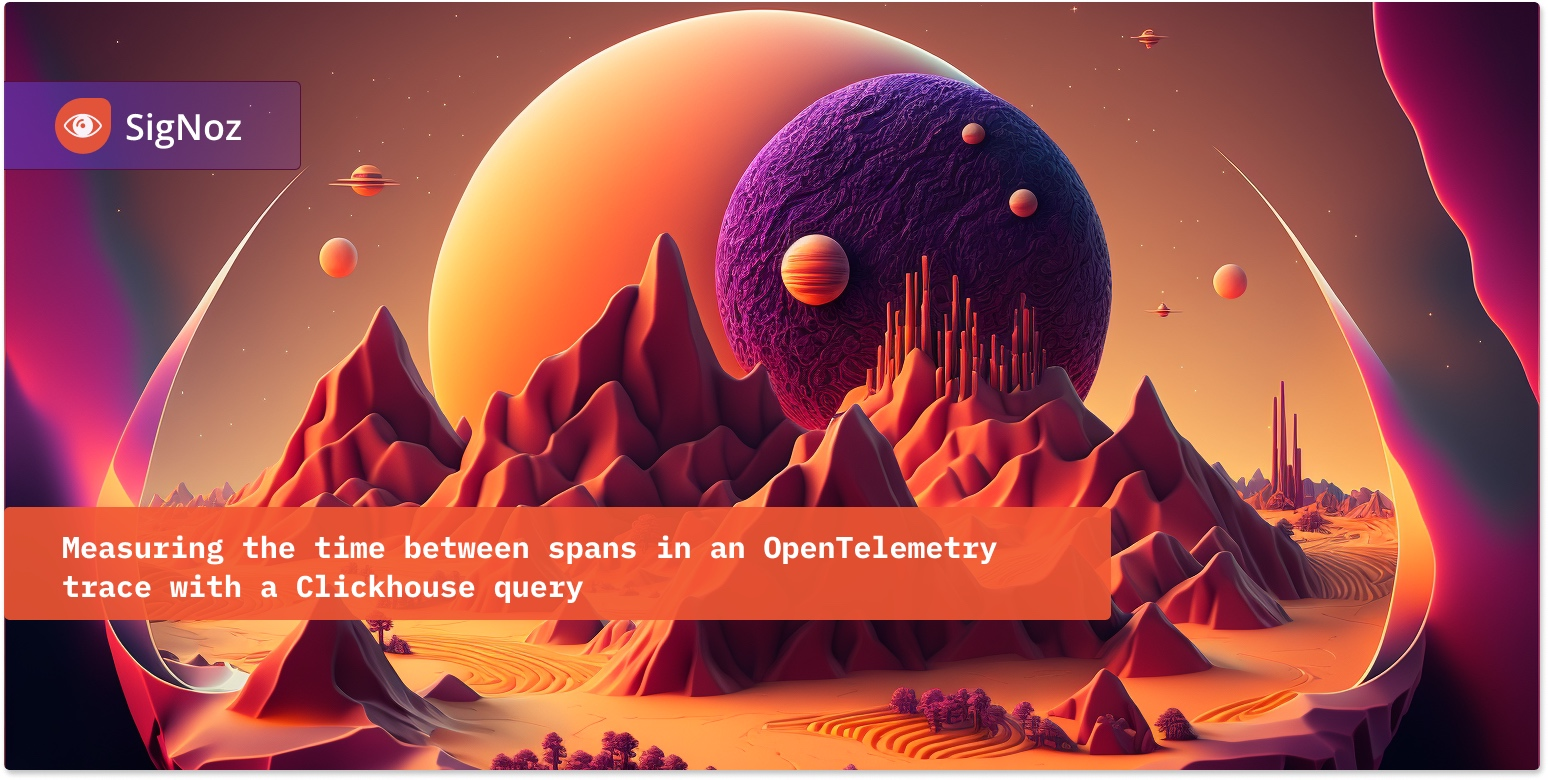
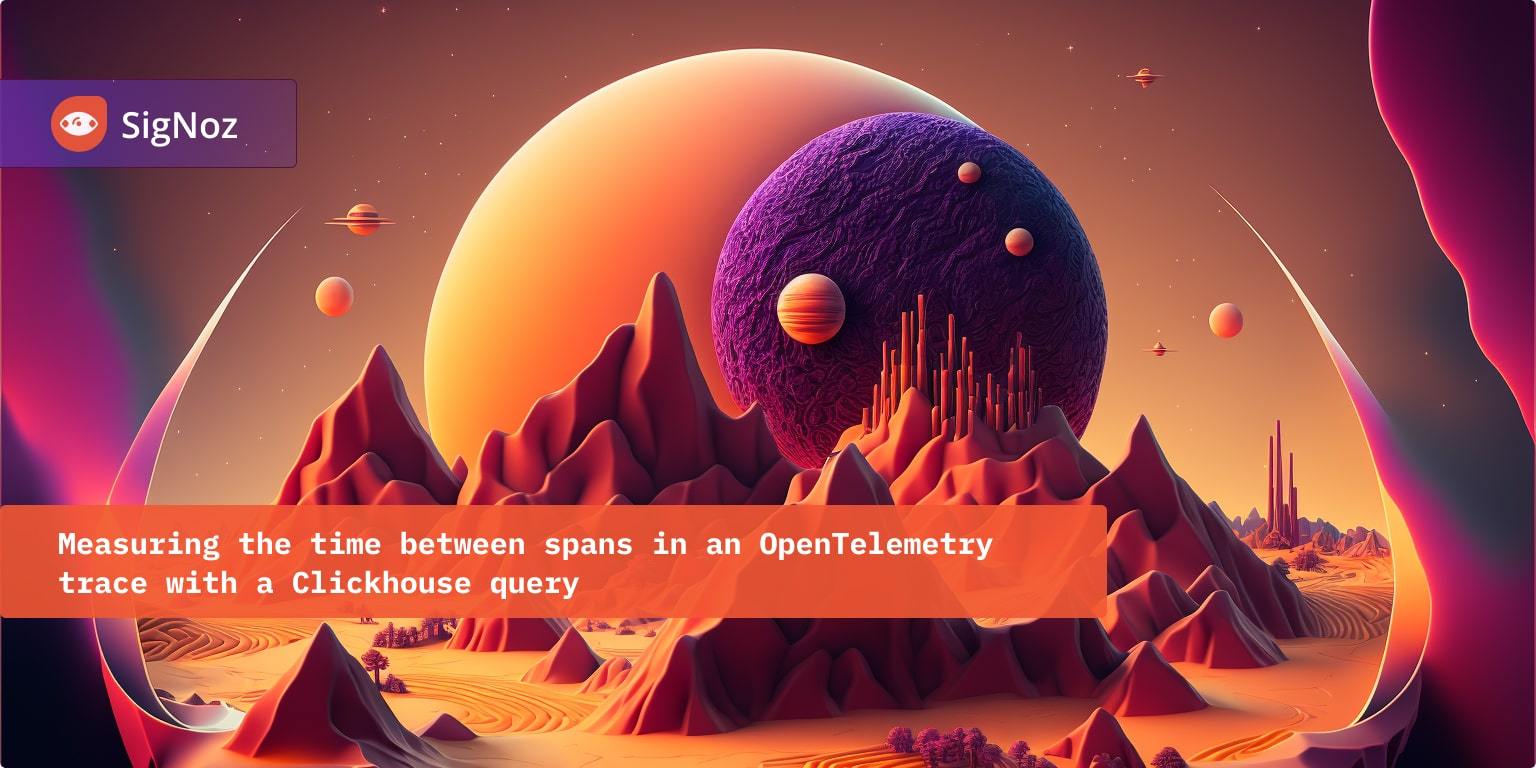
Updated cover pic (#1019)
* Updated cover pic

* removed yt embed

diff --git a/blog/2023-08-02-clickhouse-query-compare-two-spans.md b/blog/2023-08-02-clickhouse-query-compare-two-spans.md
@@ -1,7 +1,7 @@
 ---
-title: Measuring the time between spans with a Clickhouse query
+title: Measuring the time between spans in an OpenTelemetry trace with a Clickhouse query
 slug: clickhouse-query-compare-two-spans
-date: 2023-08-02
+date: 2023-08-09
 tags: [OpenTelemetry, Product]
 authors: nicamellifera
 description: Sharing a query that lets you compare the time between two spans in different traces, even across two different services.
@@ -11,7 +11,6 @@ keywords:
  - OpenTelemetry
  - Dev community
 ---
-import { LiteYoutubeEmbed } from "react-lite-yt-embed";
 
 <head>
   <link rel="canonical" href="https://signoz.io/blog/clickhouse-query-compare-two-spans/"/>
@@ -23,7 +22,7 @@ The usefulness of this answer is evident if you think about how often the total 
 
 <!--truncate-->
 
-![Cover Image](/img/blog/2023/08/clickhouse_query_cover-min.webp)
+![Cover Image](/img/blog/2023/08/clickhouse_query_cover.webp)
 
 While it would be great to report a span with this critical section of time, that’s not always feasible. We don’t all control our codebase to the degree we can add custom markers to our tracer, and it’s possible the two spans in question are on very different services, requiring a ton work to tie them together at execution time.
 
